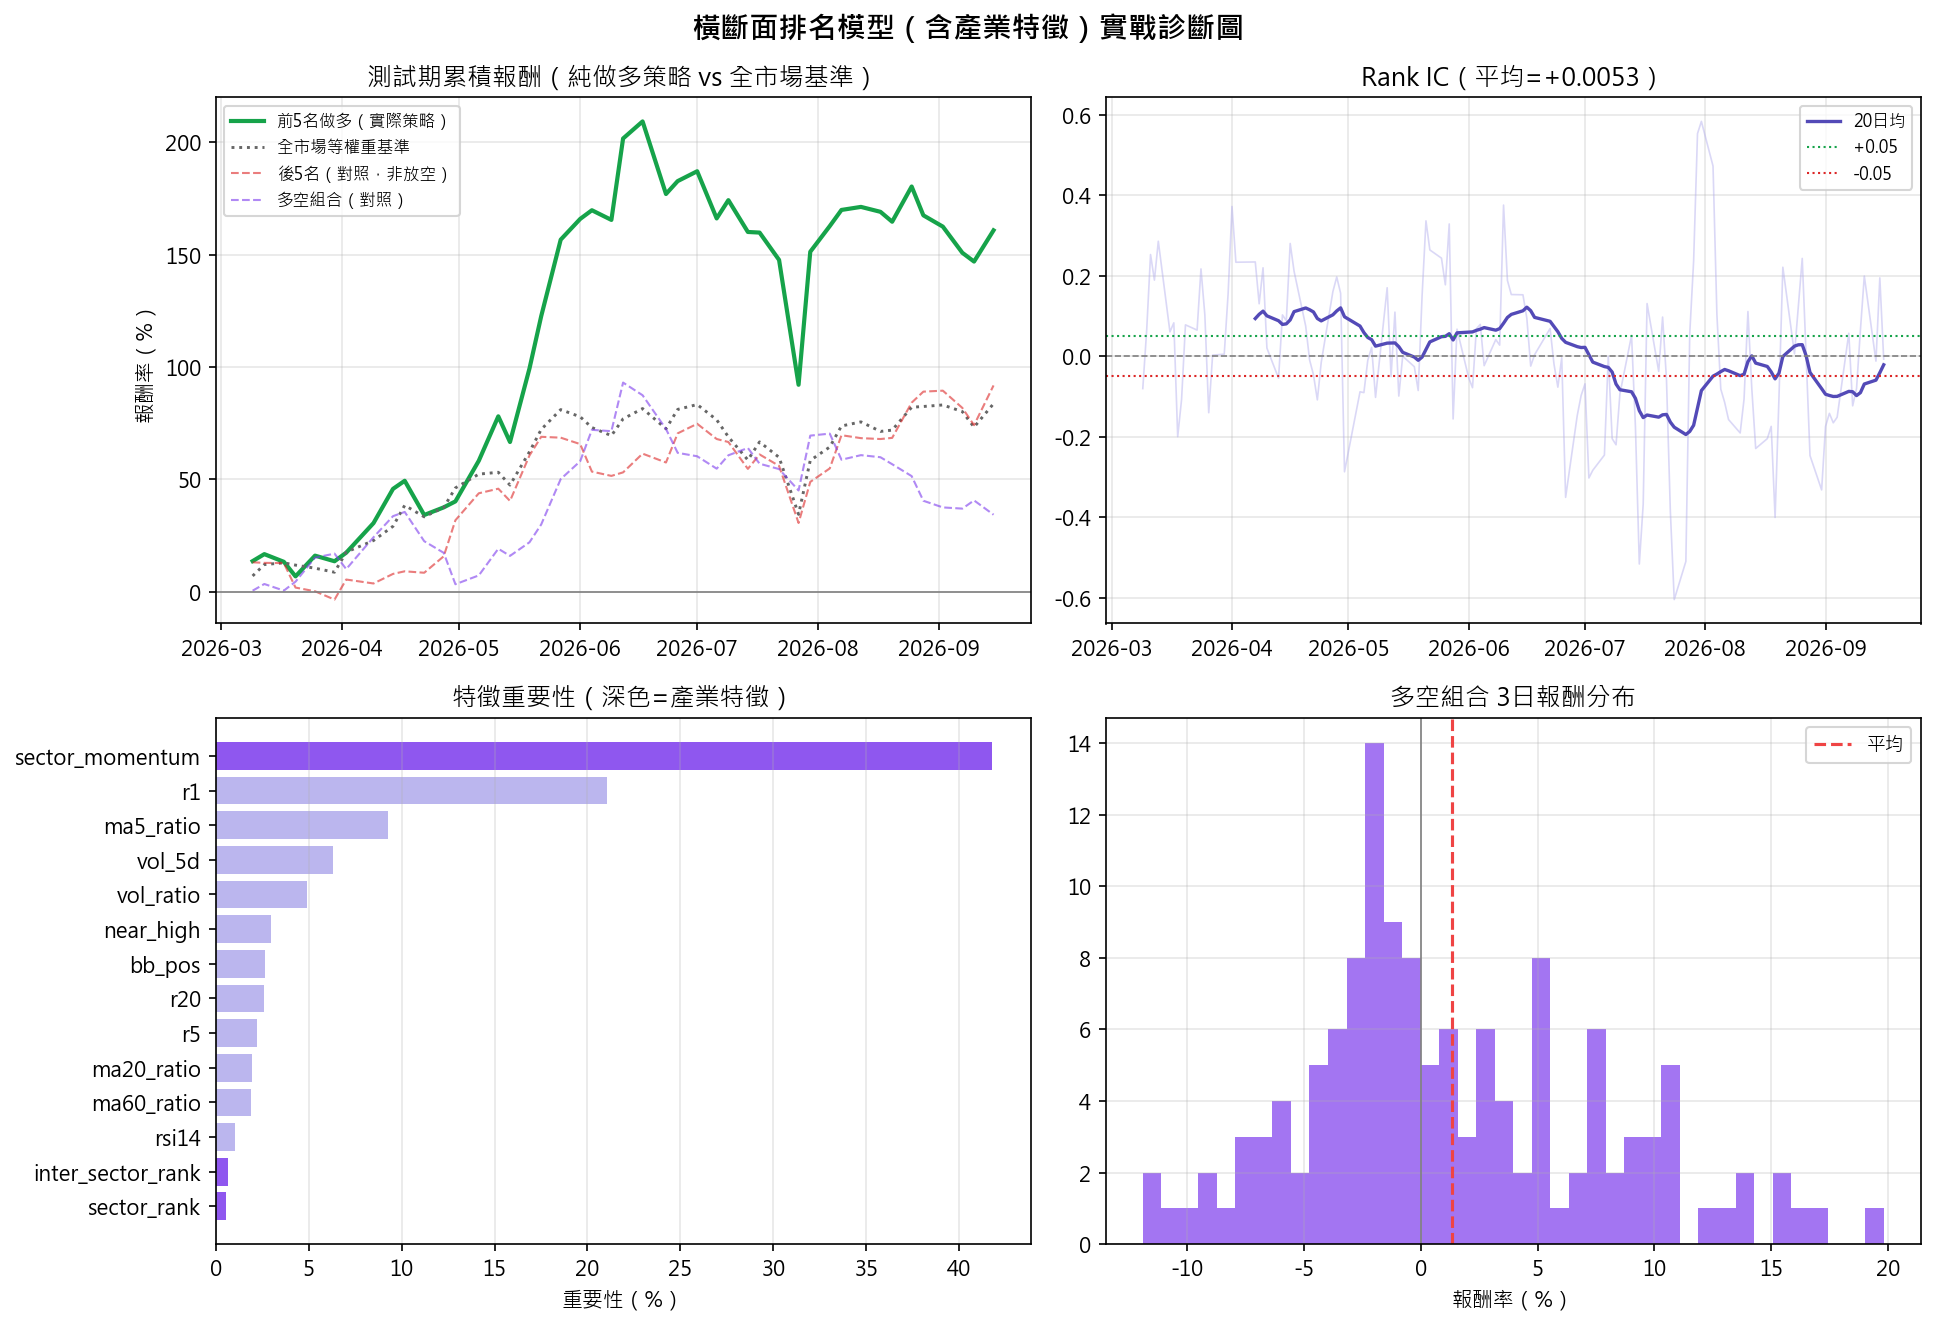
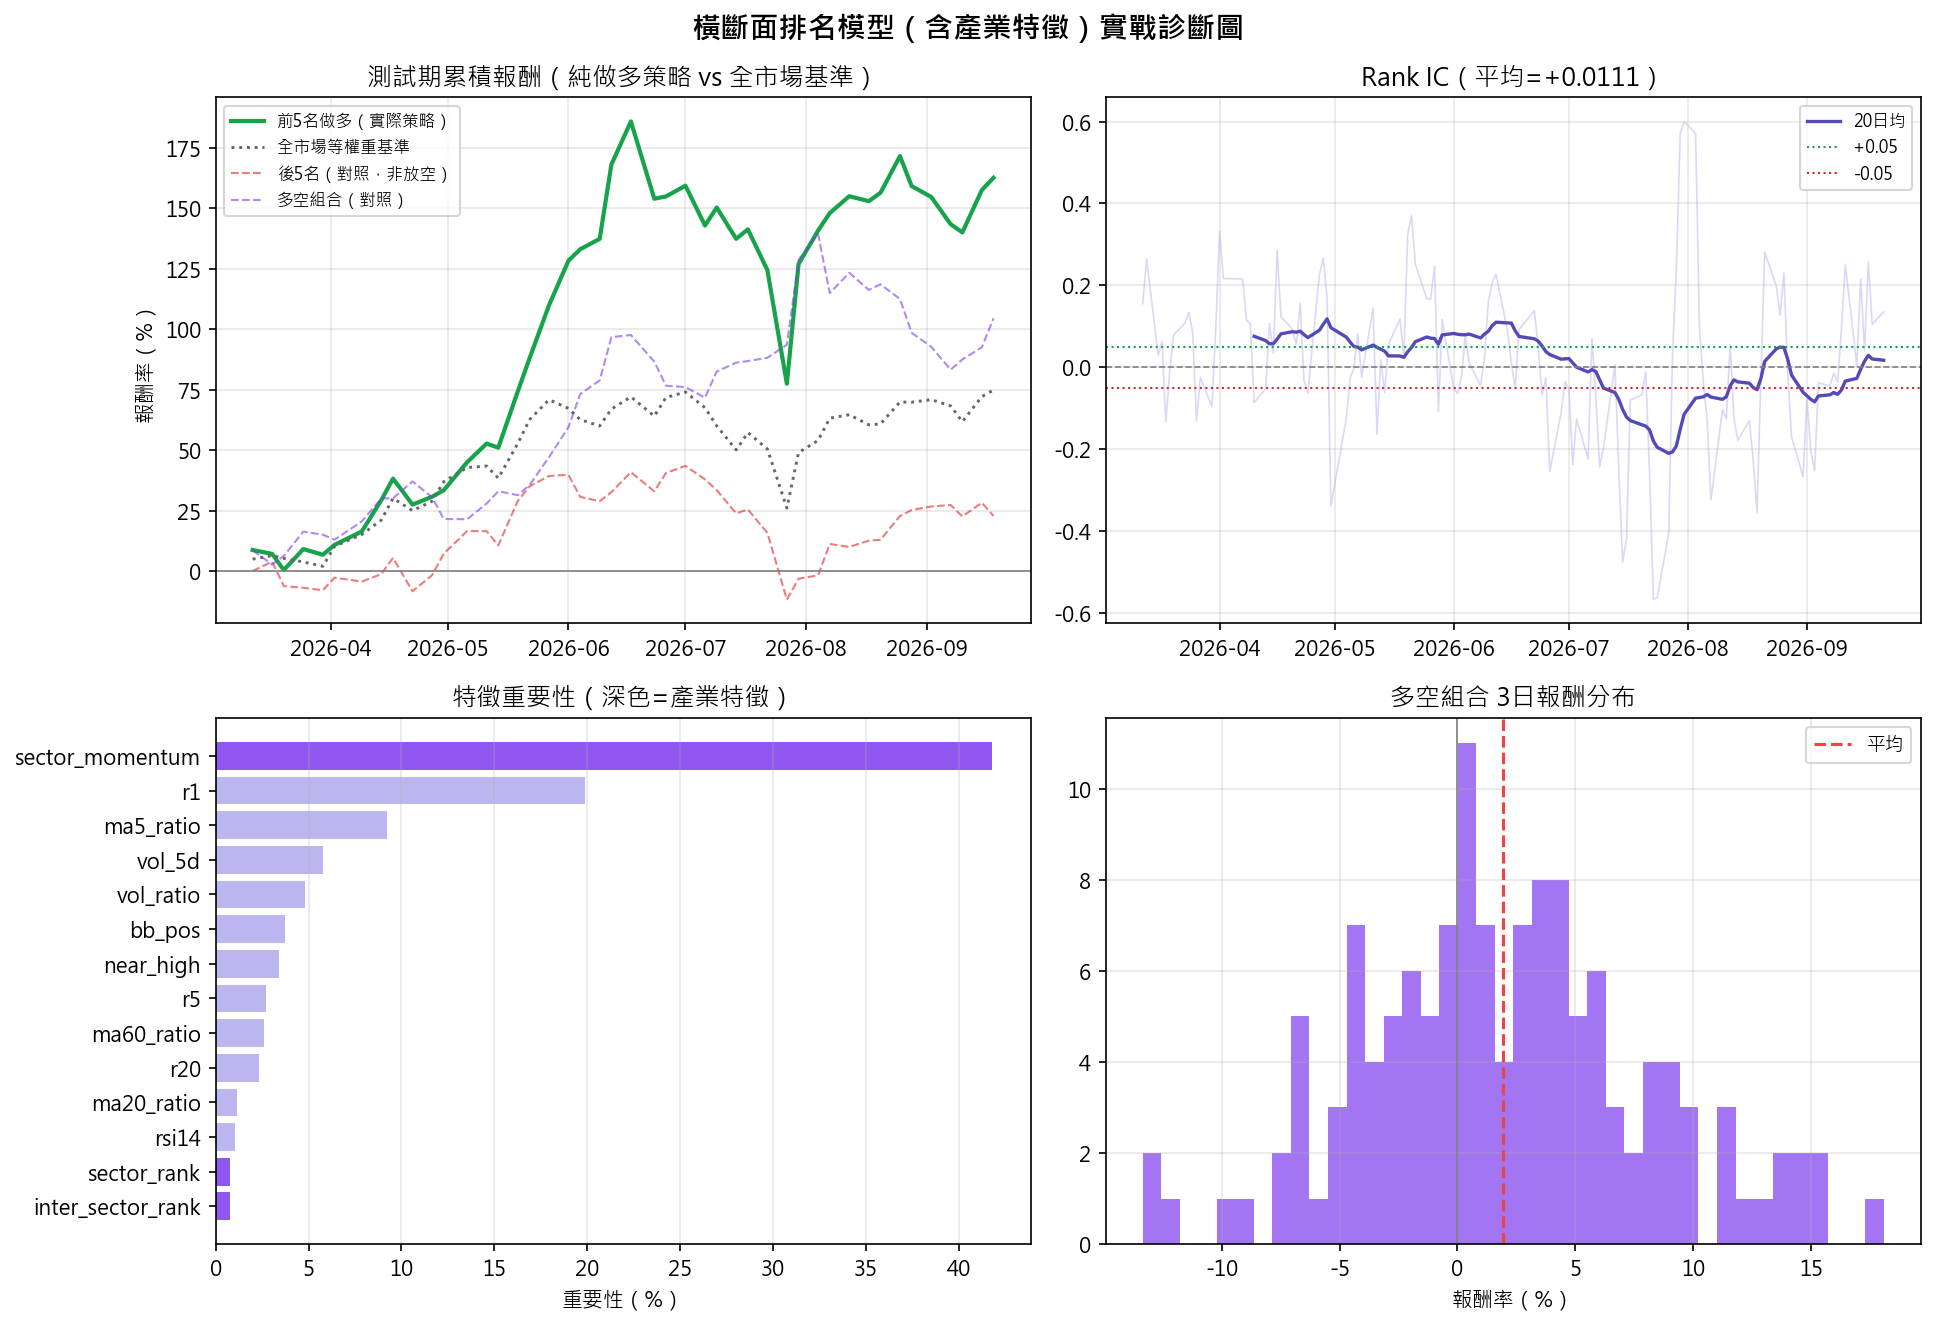
更新股票池(9/29)與day28診斷圖表

diff --git a/watchlist.py b/watchlist.py
@@ -1,4 +1,4 @@
-# watchlist.py -- auto synced from SinoPac (2026-09-21)
+# watchlist.py -- auto synced from SinoPac (2026-09-29)
 # MY_HOLDINGS 自動同步；MY_WATCHLIST 每週自動更新
 
 MY_HOLDINGS = {
@@ -38,13 +38,15 @@ MY_WATCHLIST = {
     "2356.TW":  "英業達",
     "2357.TW":  "華碩",
     "2359.TW":  "所羅門",
+    "2363.TW":  "矽統科技股份有限公司",
     "2368.TW":  "金像電子(股)公司",
+    "2369.TW":  "菱生精密工業股份有限公司",
     "2376.TW":  "技嘉",
     "2377.TW":  "微星科技股份有限公司",
     "2382.TW":  "廣達",
     "2395.TW":  "研華",
     "2399.TW":  "映泰股份有限公司",
-    "2421.TW":  "建準電機工業股份有限公司",
+    "2413.TW":  "環隆科技股份有限公司",
     "2436.TW":  "偉詮電子股份有限公司",
     "2449.TW":  "京元電子股份有限公司",
     "2455.TW":  "全新",
@@ -78,6 +80,7 @@ MY_WATCHLIST = {
     "3706.TW":  "神達控股股份有限公司",
     "3711.TW":  "日月光投控",
     "3715.TW":  "定穎投資控股股份有限公司",
+    "4919.TW":  "新唐科技股份有限公司",
     "4938.TW":  "和碩聯合科技股份有限公司",
     "6230.TW":  "超豐",
     "6257.TW":  "矽格股份有限公司",
@@ -89,13 +92,17 @@ MY_WATCHLIST = {
     "6533.TW":  "晶心科",
     "6643.TWO":  "M31",  # OTC
     "6669.TW":  "緯穎",
+    "6672.TW":  "騰輝電子國際集團股份有限公司",
     "6770.TW":  "力晶積成電子製造股份有限公司",
+    "6834.TW":  "天二科技股份有限公司",
     "6953.TWO":  "家碩",  # OTC
     "7556.TWO":  "意德士",  # OTC
     "8021.TW":  "尖點科技股份有限公司",
     "8027.TWO":  "鈦昇",  # OTC
+    "8028.TW":  "昇陽國際半導體股份有限公司",
     "8039.TW":  "台虹科技股份有限公司",
     "8103.TW":  "瀚荃股份有限公司",
+    "8110.TW":  "華東科技股份有限公司",
     "8150.TW":  "南茂科技股份有限公司",
     "8277.TWO":  "商丞",  # OTC
 }
